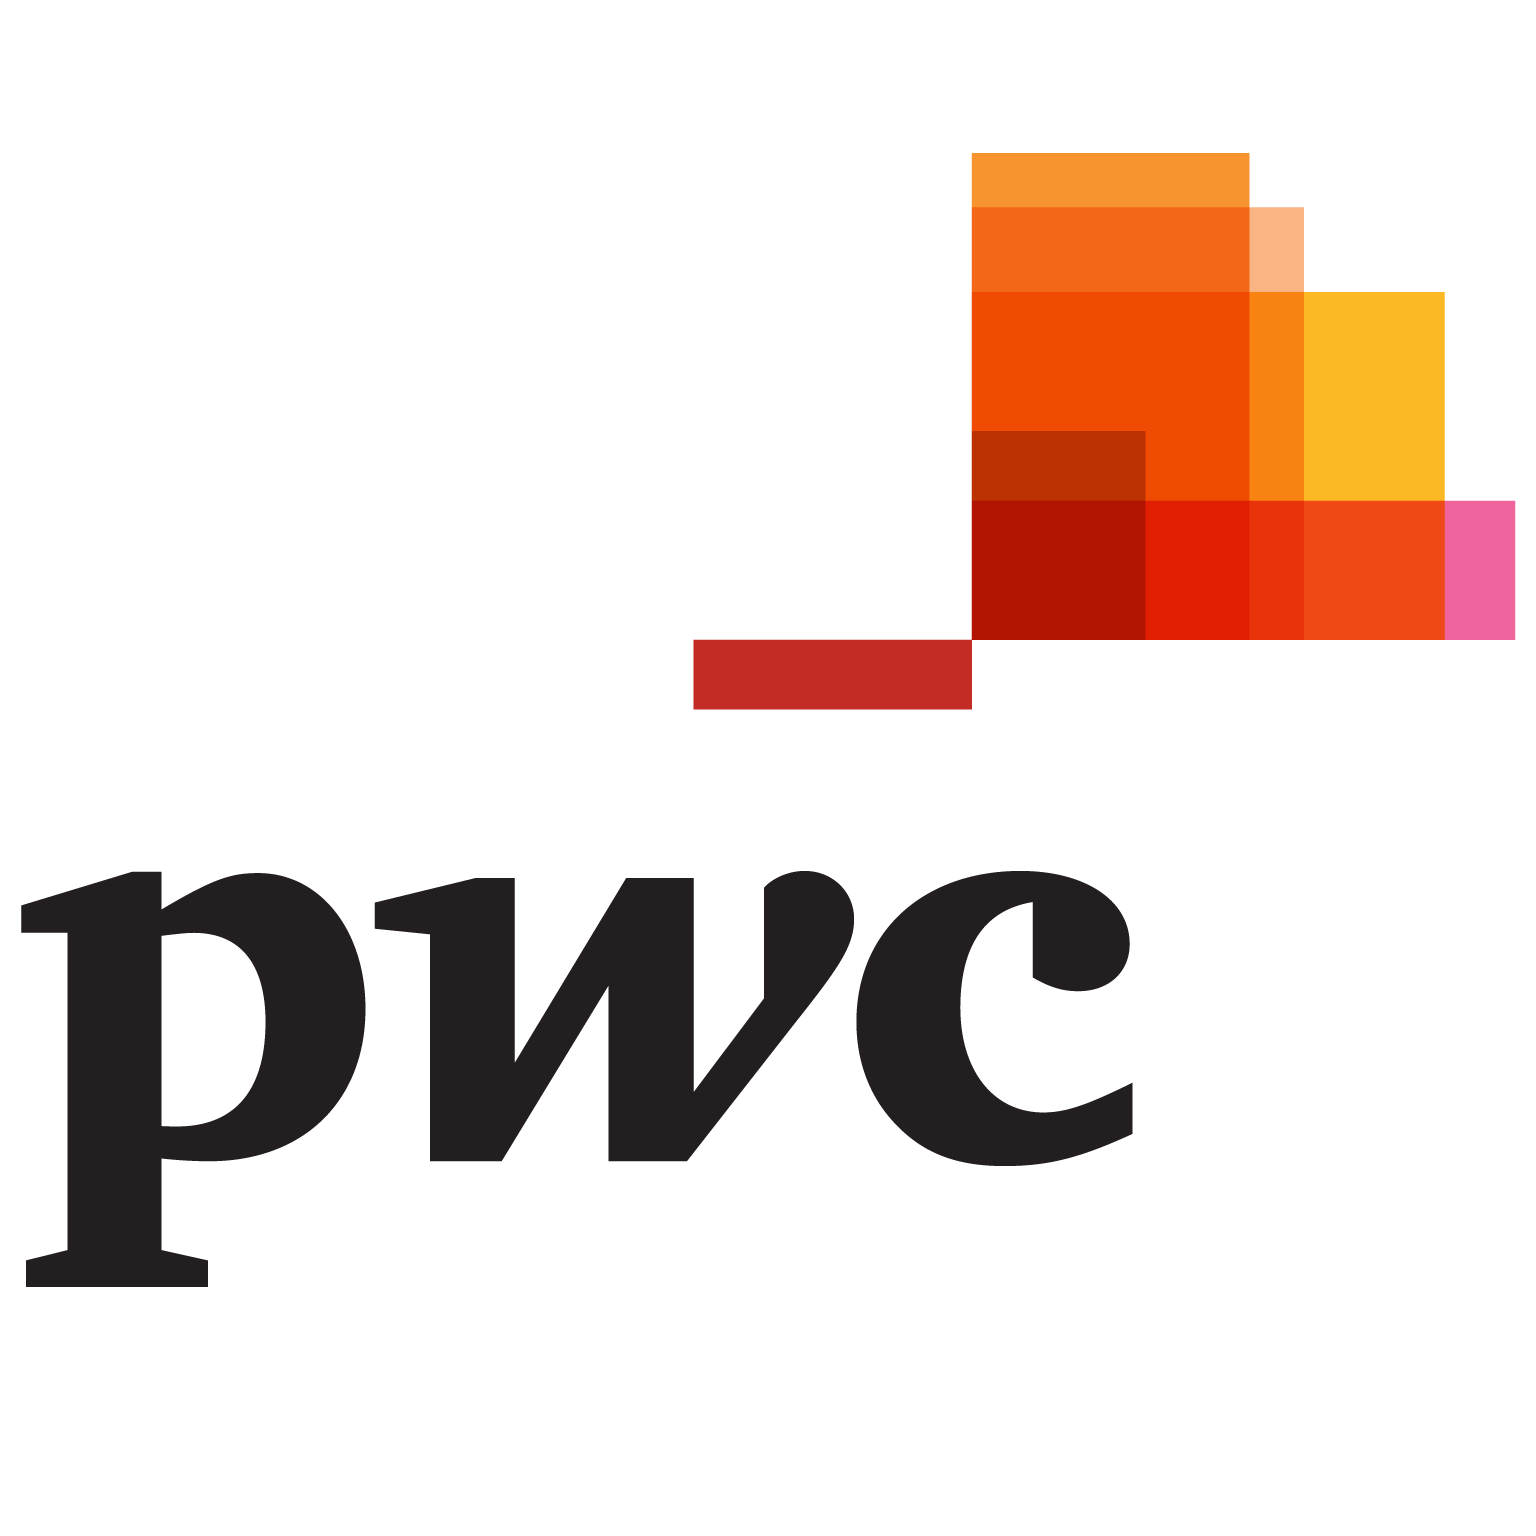
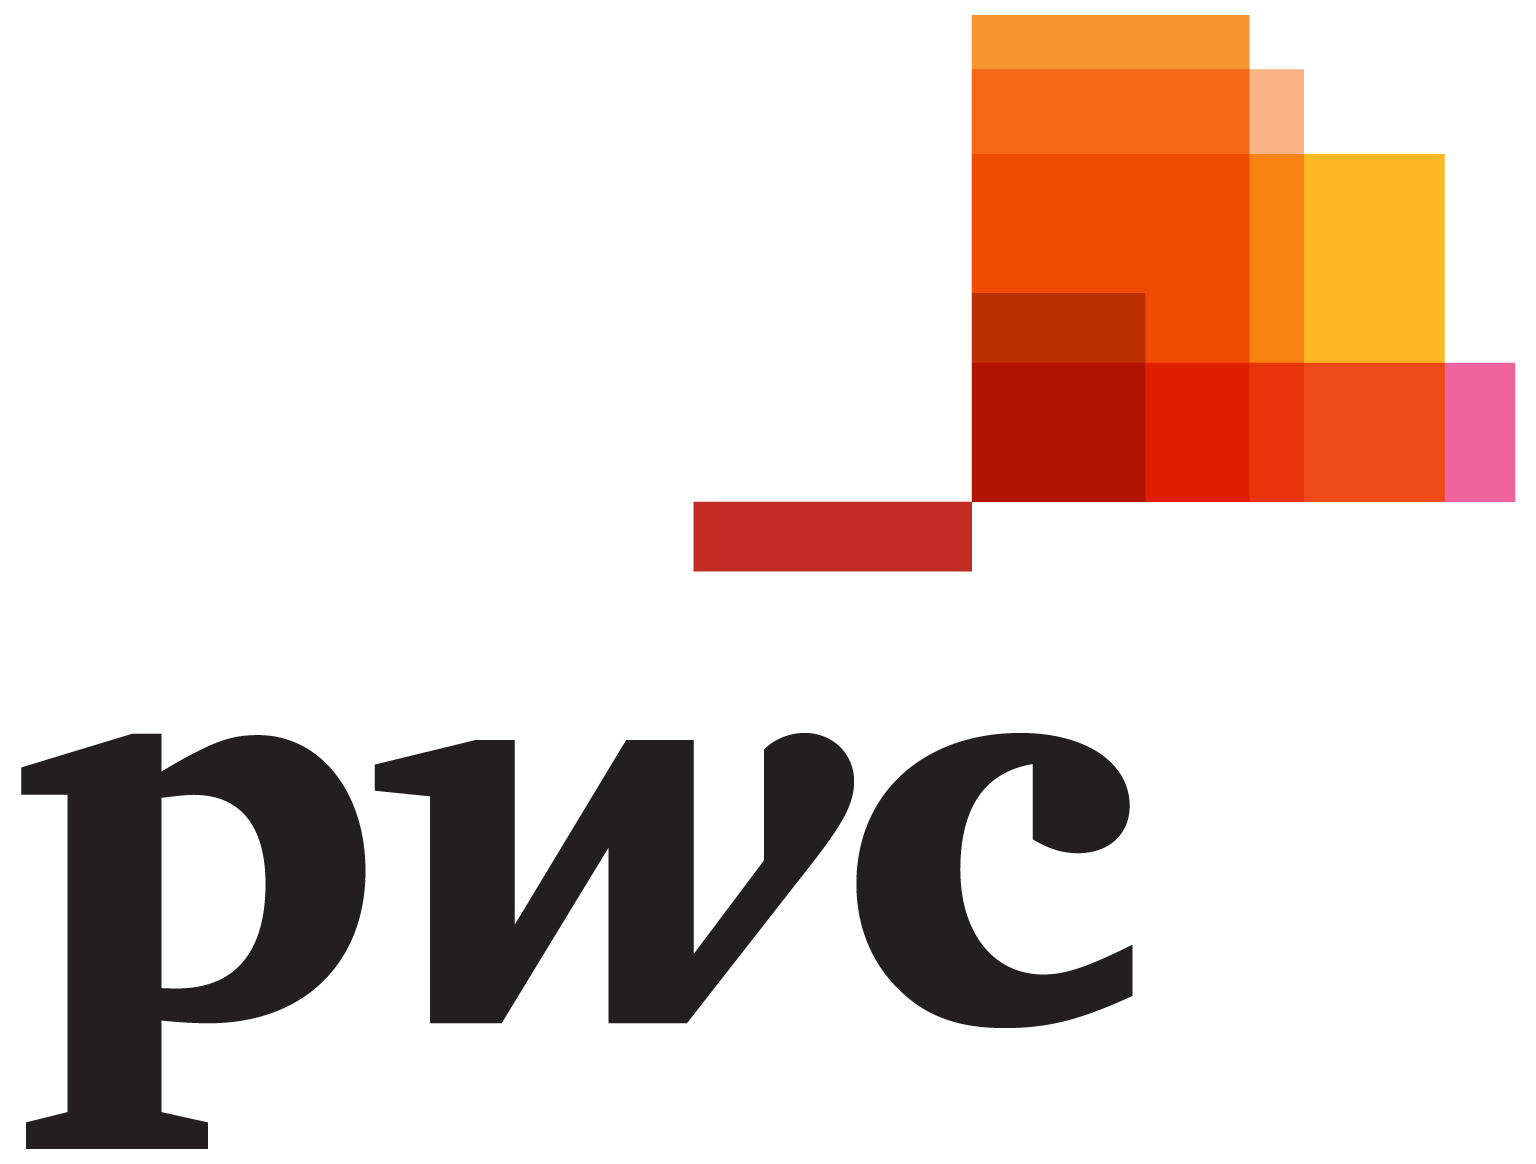
white sponsors section

diff --git a/index.html b/index.html
@@ -16,7 +16,7 @@
 	<meta name="msapplication-TileColor" content="#da532c">
 	<meta name="msapplication-config" content="./img/icons/browserconfig.xml">
 	<meta name="theme-color" content="#ffffff">
-  <meta property="og:image" content="./img/UGAH4-BG7.jpg" />
+	<meta property="og:image" content="./img/UGAH4-BG7.jpg" />
 </head>
 
 <body>
@@ -65,8 +65,9 @@
 					</p>
 					<br />
 					<p>
-						Don't worry if you aren't a CS major, or don't feel comfortable coding! 
-						We have many workshops for you to attend, mentors to spruce up your project, and supportive teammates waiting for your arrival!
+						Don't worry if you aren't a CS major, or don't feel comfortable coding!
+						We have many workshops for you to attend, mentors to spruce up your project, and supportive teammates waiting for
+						your arrival!
 						Hackathons are about fertilizing your knowledge and we're here for your growth!
 					</p>
 				</div>
@@ -110,19 +111,19 @@
 			<div class="boxcontent">
 				<div class="boxtext">
 					<div id="timeline">
-						<hr class ="timeline-line">
+						<hr class="timeline-line">
 						<div class="timeline-box">
 							<h4>NOV</h4>
 							<h5>30</h5>
 							<h6>Registration Open</h6>
 						</div>
-						<hr class ="timeline-line">
+						<hr class="timeline-line">
 						<div class="timeline-box">
 							<h4>JAN</h4>
 							<h5>31</h5>
 							<h6>Registration Close</h6>
 						</div>
-						<hr class ="timeline-line">
+						<hr class="timeline-line">
 						<div class="timeline-box">
 							<h4>FEB</h4>
 							<h5>08</h5>
@@ -147,9 +148,11 @@
 					<img src="img/H4registration.png" />
 				</div>
 				<div class="boxtext">
-					<p><a href="https://ugeorgia.ca1.qualtrics.com/jfe/form/SV_0USwj0iN2isrIXz" target="_blank">Join UGA for its 4th annual hackathon!</a></p>
+					<p><a href="https://ugeorgia.ca1.qualtrics.com/jfe/form/SV_0USwj0iN2isrIXz" target="_blank">Join UGA for its 4th
+							annual hackathon!</a></p>
 					<br />
-					<p>This year is about fostering and growing the new generation of coders -- Sowing the Seed for the Next Generation of Coders.</p>
+					<p>This year is about fostering and growing the new generation of coders -- Sowing the Seed for the Next
+						Generation of Coders.</p>
 					<br />
 					<p>Hope to see you in February!</p>
 				</div>
@@ -165,11 +168,13 @@
 				<div class="boxtext">
 					<h3>Where? </h3>
 					<p>
-						The <a href="https://goo.gl/maps/ufiFo4PmKb82">Lamar Dodd School of Art</a>, University of Georgia, Athens, GA. We'll be posting the venue along with parking information very soon!
+						The <a href="https://goo.gl/maps/ufiFo4PmKb82">Lamar Dodd School of Art</a>, University of Georgia, Athens, GA.
+						We'll be posting the venue along with parking information very soon!
 					</p>
 					<h3>Who can sign up? </h3>
 					<p>
-						All university students! We welcome all undergraduates and graduate students of all skill levels to attend. Professionals
+						All university students! We welcome all undergraduates and graduate students of all skill levels to attend.
+						Professionals
 						and other guests are
 						welcome to attend as mentors or volunteers.
 					</p>
@@ -180,15 +185,19 @@
 					</p>
 					<h3>What should I bring? </h3>
 					<p>
-						Enthusiasm! Laptops, phones, chargers, and other tools you might need for your project are also important! If you're staying overnight, be sure to bring the necessary toiletries and a sleeping bag. Additionally, please bring your official student ID or government ID (no photocopies allowed).
+						Enthusiasm! Laptops, phones, chargers, and other tools you might need for your project are also important! If
+						you're staying overnight, be sure to bring the necessary toiletries and a sleeping bag. Additionally, please
+						bring your official student ID or government ID (no photocopies allowed).
 					</p>
 					<h3>Can I start working on my project before the event? </h3>
 					<p>
-						 No. All UGAHacks projects must begin at the hackathon. You are not permitted to begin a hackathon project before this event. Feel free to bring ideas, but no code!
+						No. All UGAHacks projects must begin at the hackathon. You are not permitted to begin a hackathon project before
+						this event. Feel free to bring ideas, but no code!
 					</p>
 					<h3>What if I don't have a team or idea? </h3>
 					<p>
-						Don't sweat it! You're free to join any existing team or form a new one when you get there. We'll also provide ample opportunities for hackers to meet each other and brainstorm some amazing ideas.
+						Don't sweat it! You're free to join any existing team or form a new one when you get there. We'll also provide
+						ample opportunities for hackers to meet each other and brainstorm some amazing ideas.
 					</p>
 					<h3>How many people can I have on my team? </h3>
 					<p>
@@ -196,15 +205,19 @@
 					</p>
 					<h3>Will you be offering travel reimbursements? </h3>
 					<p>
-						Yes, we will be offering travel reimbursements! Please make sure to note it on your registration and we will reach out to you upon acceptance. University of Georgia students are not eligible to receive travel reimbursements. 
+						Yes, we will be offering travel reimbursements! Please make sure to note it on your registration and we will
+						reach out to you upon acceptance. University of Georgia students are not eligible to receive travel
+						reimbursements.
 					</p>
 					<h3>Where will I sleep? </h3>
 					<p>
-						We'll have designated sleeping areas for hackers, but they will be on a first-come-first-serve basis. You're welcome and even encouraged to bring a sleeping bag!
+						We'll have designated sleeping areas for hackers, but they will be on a first-come-first-serve basis. You're
+						welcome and even encouraged to bring a sleeping bag!
 					</p>
 					<h3>Can I volunteer / mentor at UGAHacks? </h3>
 					<p>
-						We love your enthusiasm! Volunteers and mentors can apply via the registration form above! If you have any questions regarding the position, please contact us at
+						We love your enthusiasm! Volunteers and mentors can apply via the registration form above! If you have any
+						questions regarding the position, please contact us at
 						<a href="mailto:hackathon@uga.edu">hackathon@uga.edu</a>
 						- Be sure to mention it in the subject. See you soon!
 					</p>
@@ -227,9 +240,9 @@
 			</div>
 
 			<div class="sponsorlogos">
-				<img id="ulred" src="img/UL_Enterprise_red_4c.svg"/>
-				<img id="pwcready" src="img/PwC_fl_kh_rose_pms.svg"/>
-			
+				<img src="img/UL_Enterprise_blk.svg" />
+				<img src="img/pwcready.png" />
+
 			</div>
 
 			<div class="boxcontent">

diff --git a/css/style.css b/css/style.css
@@ -267,8 +267,17 @@ h6 - for subject*/
 }
 
 #sponsors {
-    background-image: url("../img/UGAH4-BG7.jpg");
+    background: linear-gradient(
+            to bottom,
+            rgba(40, 40, 40, 1) 0%,
+            rgba(20, 20, 20, 0.4) 20%,
+            rgba(0, 0, 0, 0) 30%
+        ),
+        url("../img/UGAH4-BG7.jpg");
     min-height: 60vh;
+    background-size: cover;
+    min-height: 800px;
+    background-position: top center;
 }
 
 #sponsors h2 {
@@ -279,15 +288,15 @@ h6 - for subject*/
     font-weight: normal;
 }
 
-.sponsorlogos{
+.sponsorlogos {
     display: flex;
     margin-top: 2em;
     justify-content: center;
     justify-content: space-evenly;
 }
-#ulred, #pwcready{
-    width: 150px;
-    height: 150px;
+
+.sponsorlogos img {
+    max-height: 100px;
 }
 
 @media (max-width: 768px), (orientation: portrait) {
@@ -336,7 +345,8 @@ h6 - for subject*/
     #main .btn {
         bottom: 12%;
     }
-    #ulred , #pwcready{
+    #ulred,
+    #pwcready {
         max-width: 100px;
         max-height: 100px;
     }
